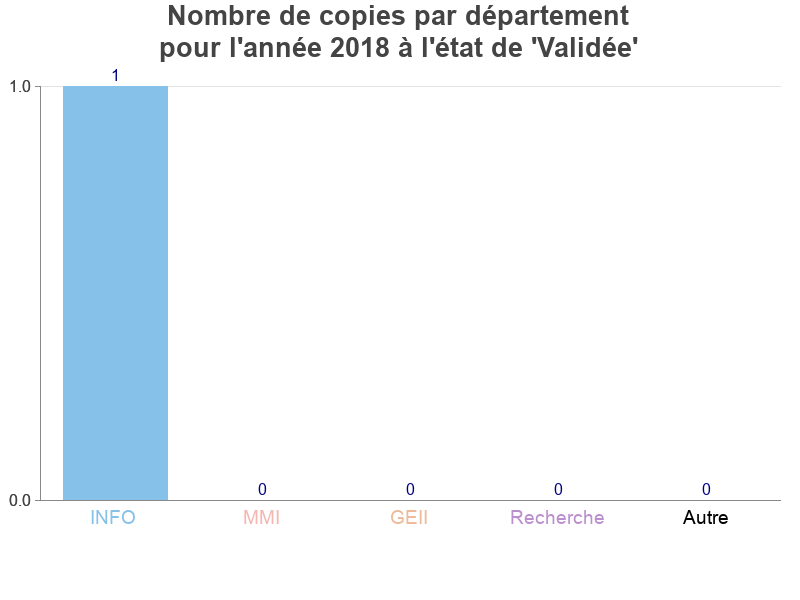
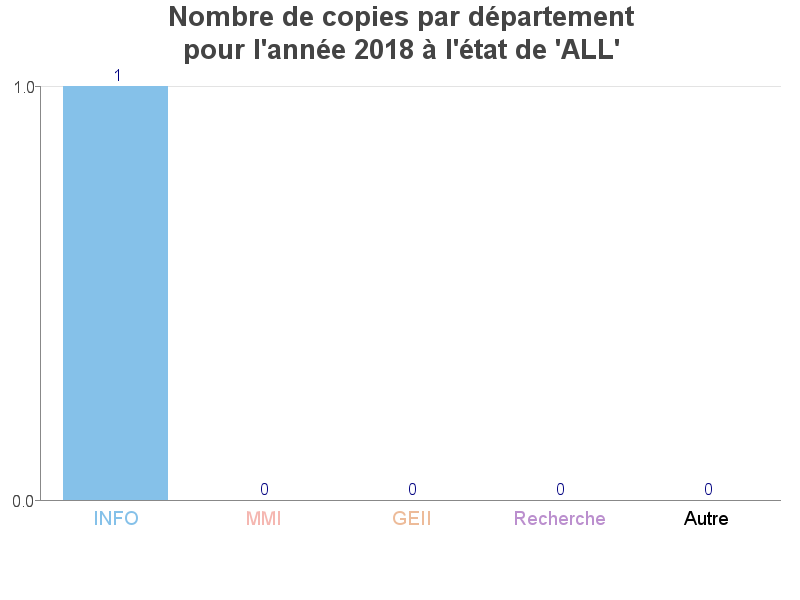
Fix errors

diff --git a/src/site/scripts/functions.php b/src/site/scripts/functions.php
@@ -221,11 +221,19 @@
 		
 		//  REQUETE SQL DE CREATION D'UNE NOUVELLE DEMANDE
 		$sql = "UPDATE REQUESTS SET etat='". $arg_new_state ."' WHERE id_request='". $arg_id_request ."'";
-		$bdd->query($sql);
+		$bdd->query($sql);	
 		echo "Le statut de la demande ". $arg_id_request ." a été modifié: ". $arg_new_state; 
-		send_email_notif($email);
-		header('Location: ../pages/repro-visual.php');
-		exit();
+		if($email == "repro"){
+			send_email_notif_repro();
+			header('Location: ../pages/client-visual.php');
+			exit();
+		}
+		else {
+			send_email_notif($email);
+			header('Location: ../pages/repro-visual.php');
+			exit();
+		}
+		
 	}
 	
 	
@@ -430,10 +438,10 @@
 				<td><?php echo $delivery_date; ?></td>
 				<td>
 				<select class="custom-select" name="status[]">
-						<option value="<?php echo $user_email. ",En attente,".$array[$i]['id_request'];?>">En attente</option>
-						<option value="<?php echo $user_email. ",En cours,".$array[$i]['id_request'];?>">En cours</option>
-						<option value="<?php echo $user_email. ",Validee,".$array[$i]['id_request'];?>">Validée</option>
-						<option value="<?php echo $user_email. ",Annulee,".$array[$i]['id_request'];?>">Annulée</option>
+						<option value="<?php echo $user_email. ",En attente,".$array[$i]['id_request'];?>"<?php if($etat == "En attente"){echo "selected";}?>>En attente</option>
+						<option value="<?php echo $user_email. ",En cours,".$array[$i]['id_request'];?>"<?php if($etat == "En cours"){echo "selected";}?>>En cours</option>
+						<option value="<?php echo $user_email. ",Validee,".$array[$i]['id_request'];?>"<?php if($etat == "Validee"){echo "selected";}?>>Validée</option>
+						<option value="<?php echo $user_email. ",Annulee,".$array[$i]['id_request'];?>"<?php if($etat == "Annulee"){echo "selected";}?>>Annulée</option>
 				</select>
 				</td>
 			</tr>
@@ -1191,8 +1199,9 @@ A bientot !
 			}
 		}
 		//  REQUETE SQL DE SELECTION
-		$reponse = ($bdd->query($sql))->fetch();
-		$resultat = $reponse["COUNT('num_copy')"];
+		$reponse = $bdd->query($sql);
+		$donnee =  $reponse->fetch();
+		$resultat = $donnee["COUNT('num_copy')"];
 		return $resultat;
 	}
 

diff --git a/src/site/conf/conf.php b/src/site/conf/conf.php
@@ -5,7 +5,7 @@
 	$VALEUR_port='3306';
 	$VALEUR_nom_bd='test';
 	$VALEUR_user='root';
-	$VALEUR_mot_de_passe='root';
+	$VALEUR_mot_de_passe='';
 
 	// Url de la racine du site
 	$VALEUR_url = "http://localhost/serv/Daily-Print-Project/src/site";
@@ -14,8 +14,9 @@
 	$VALEUR_email = "admin@dailyprint.xyz" ;
 	
 	// Path des fichiers du site 
-	$VALEUR_files = "C:/users/bmarais/Documents/Git/Daily-Print-Project/src/site/files/";
+	$VALEUR_files = "M:\git\Daily-Print-Project\src\site\files";
 	
+	// Windows ou Linux ( ça gère les séparateurs de fichiers)
 	$VALEUR_os = "Windows";
 ?>
 

diff --git a/src/site/scripts/cancelRequest.php b/src/site/scripts/cancelRequest.php
@@ -1,10 +1,10 @@
 <?php
 
 	// Import des fonctions 
-include("./functions.php"); 	
-foreach ($_POST['annuler'] as $valeur){
-	$arg_new_state = 'Annulée';
-	request_state_change($valeur, $arg_new_state);
-}
+	include("functions.php"); 	
+	foreach ($_POST['annuler'] as $valeur){
+		$arg_new_state = 'Annulee';
+		request_state_change_repro($valeur, $arg_new_state , "repro");
+	}
 
 ?>

diff --git a/src/site/pages/admin-clean.php b/src/site/pages/admin-clean.php
@@ -78,11 +78,10 @@
 								echo "
 									<br/>
 									<span class='text-warning'>
-										Cette partie n'a pas encore été implémenté.
+										Cette partie n'a pas encore été implémentée.
 									</span>
 								";
 							}
-								
 						}
 					?>
 				</div>

diff --git a/src/site/scripts/grapheStatistique.php b/src/site/scripts/grapheStatistique.php
@@ -8,7 +8,7 @@
 	$data1y=array();
 	$champEtat = $_POST['champEtat'];
 	if($champEtat == 'ALL'){
-		$etat = "All";
+		$etat = "ALL";
 	}if($champEtat == 'En attente'){
 		$etat = "En attente";
 	}if($champEtat == 'Validée'){
